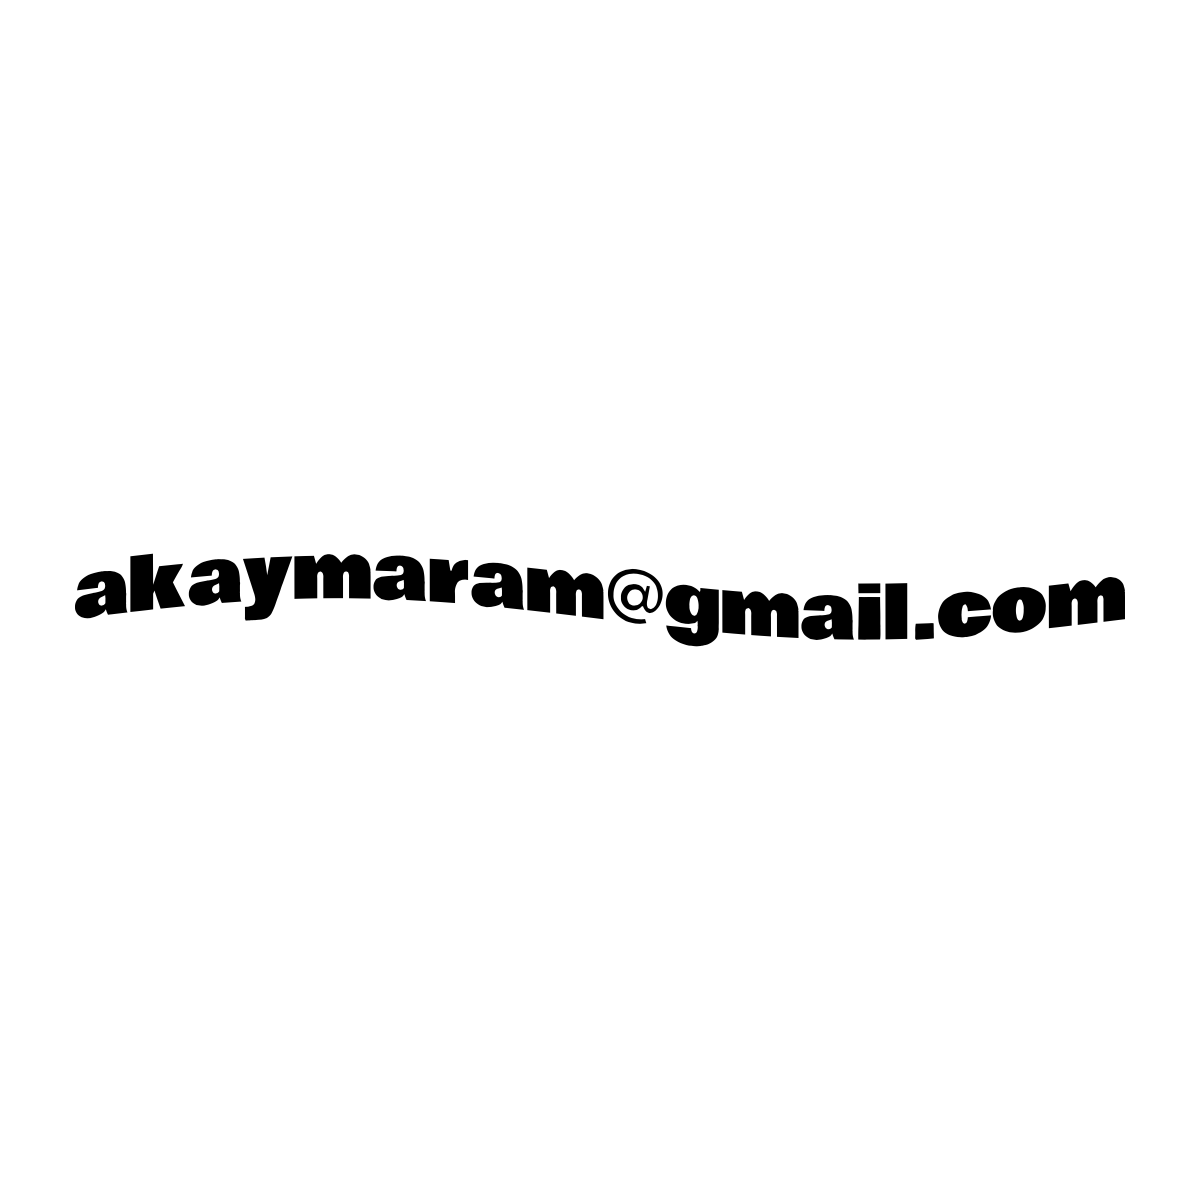
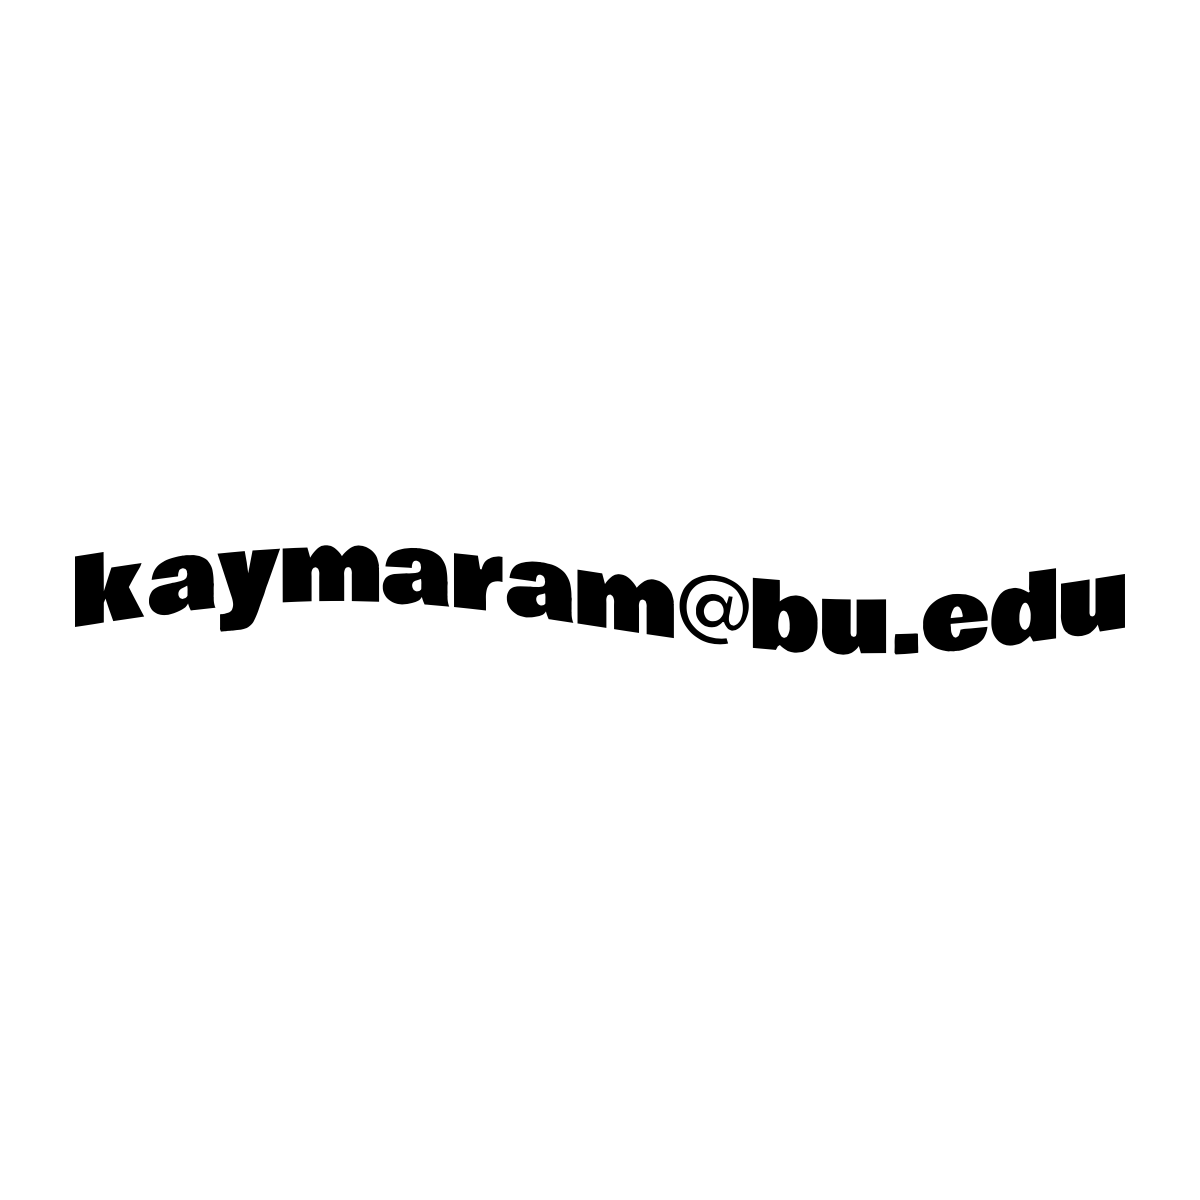
changed email

Changed region(s): [[0.0617, 0.4317, 0.9558, 0.555]]

diff --git a/index.html b/index.html
@@ -60,7 +60,7 @@ akaymaram@gmail.com <br>
 --> 
   
 <hr>
-  <img style="float: left; padding: 0px 10px 0px 0px;" width="113.6" height="28.9" src="/files/email_vector_rect.png">
+  <img style="float: left; padding: 0px 10px 0px 0px;" width="120" height="25.4" src="/files/email_vector_rect_2.png">
 <a style="padding: 0px 500px 0px 0px" href="https://www.linkedin.com/in/kaymaram/">LinkedIn</a>
 <div id="parent">
 <br>
